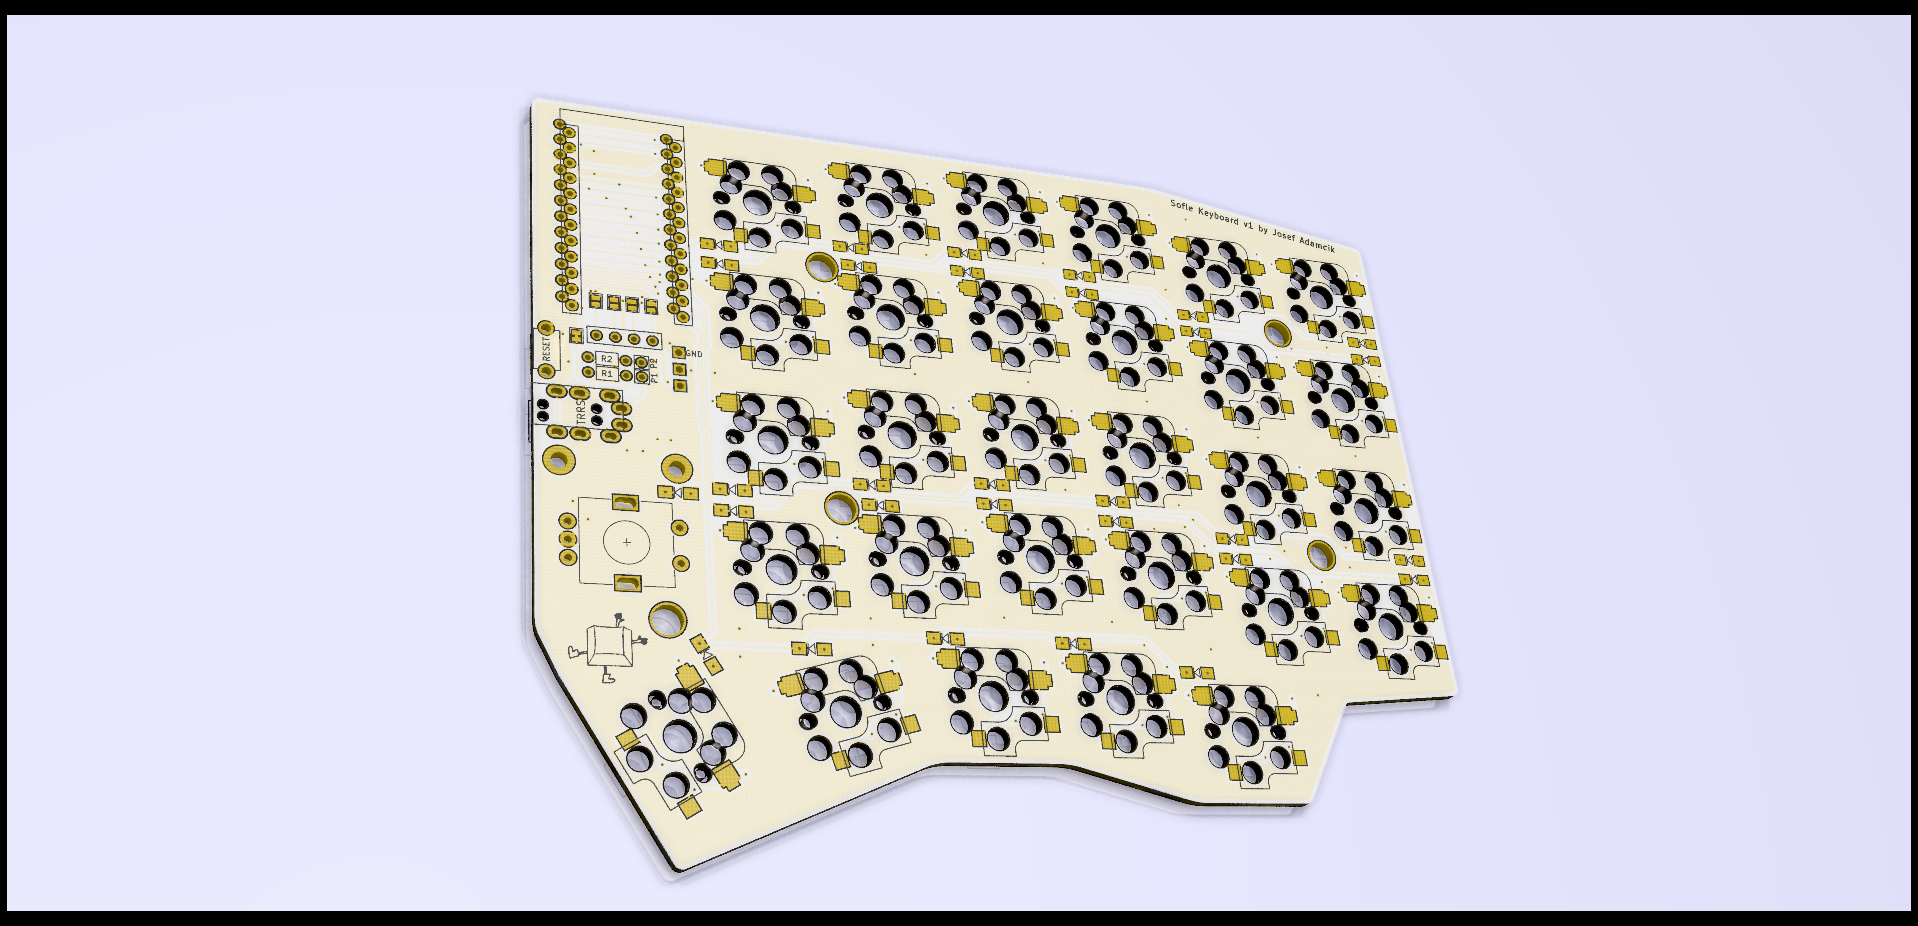
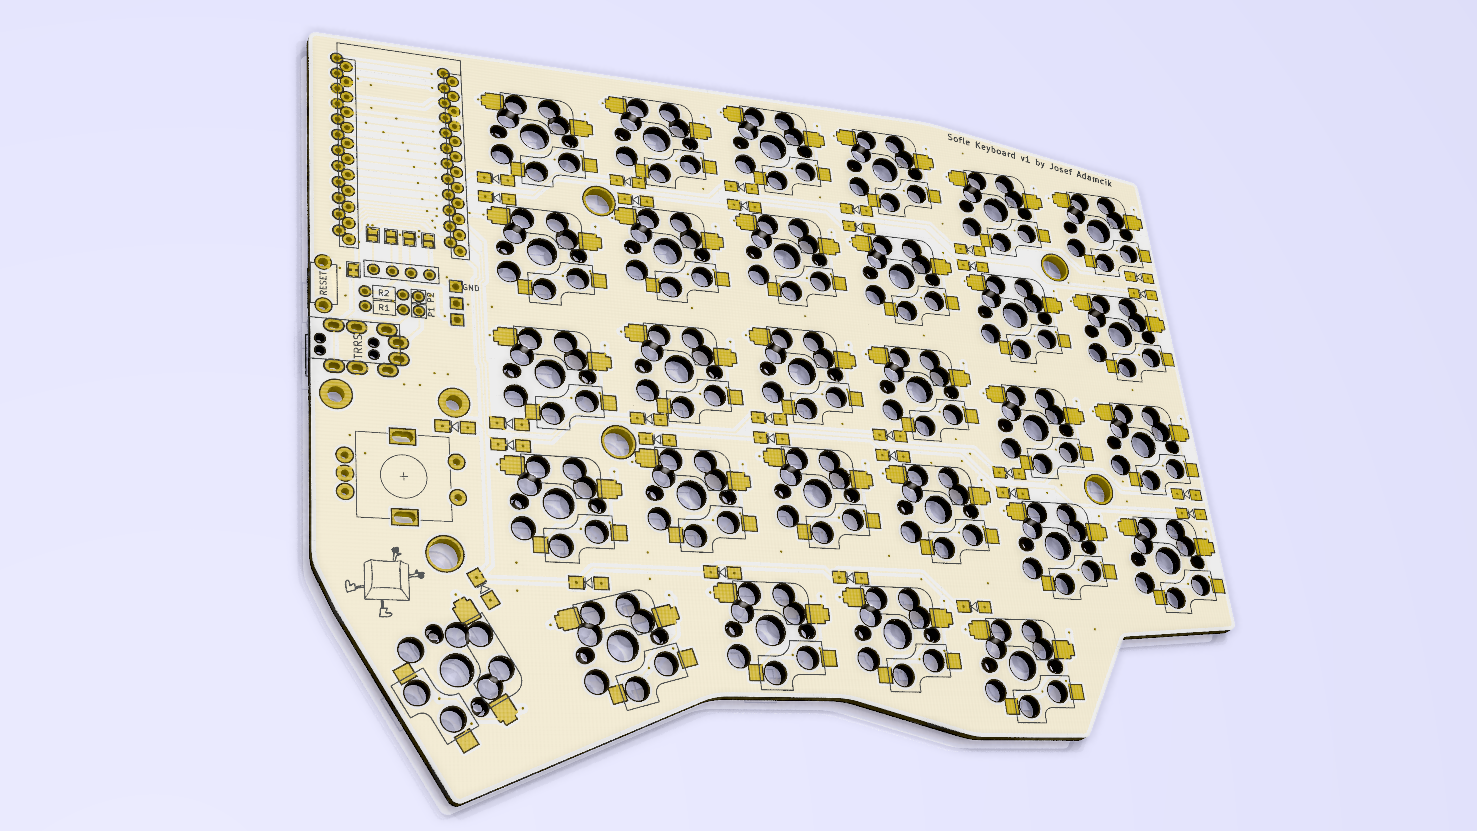
WIP sofle - more pictures, BOM

diff --git a/_drafts/sofle-keyboard.md b/_drafts/sofle-keyboard.md
@@ -8,7 +8,7 @@ series: "SofleKeyboard"
 image: /images/sofle/IMG_20200126_114622.jpg
 ---
 
-In [the first article][layoutarticle] I explained my experience with custom keyboards and my requirements regarding desired layout for a DIY keyboard. I have also promised there will be another article featuring a custom keyboard with such layout. 
+In [the first article][layoutarticle] I explained my experience with custom keyboards and my requirements regarding a layout for my next DIY keyboard. I have also promised there will be another article featuring a custom keyboard with such layout. 
 
 Behold, this is SofleKeyboard - a 6×4+5 keys column-staggered split keyboard with encoder support. Based on Lily58, Corne and Helix keyboards.
 
@@ -44,17 +44,17 @@ It was not difficult[^5] to get the files from Github and start playing with the
 
 Adding one more switch to the bottom row was pretty straightforward. I added it to the matrix in the schematic, updated the PCB and placed new footprint and traces. 
 
-There's was also one key, just below the microcontroller, next to index finger which I didn't want. I decided to replace it with rotary encoder. Why? Well I am still not sure. QEM firmware supports them and you can map anything you wish to them. Usually people use them for volume control. I just had nothing else to put there so I figured I might give it a try.
+There's was also one key, just below the microcontroller, next to index finger which I didn't need. I decided to replace it with a rotary encoder. Why? QEM firmware supports rotary encoders even for split keyboards and you can map anything you wish to rotation in both direction and to press. Usually people use them for volume control. I just had nothing else to put in the empty space so I figured I might give it a try.
 
-I also felt the inner side of the keyboard which contains the Pro Micro and TRRS jack could be smaller. So I moved things around and arranged them more in the way how Corne does it. TRRS jack and reset button below the microcontroller.
+I also felt the inner side of the keyboard which contains the Pro Micro and TRRS jack could be smaller. So I moved things around and arranged them more in the way how Corne does it: TRRS jack and reset button below the microcontroller.
 
 The last thing was to change the overall shape of the board. I used Inkscape and the tricks I learned when making PCB badges. 
 
-{% responsive_image path: images/sofle/both_pcb_top.png alt:"Lily58 and SofleKeyboard PCBs next to each other."  figcaption:"Lily58 PCB on the left and SofleKeyboard on the right"%}
+{% responsive_image path: images/sofle/both_pcb_top.png alt:"Lily58 and SofleKeyboard PCBs next to each other."  figcaption:"Lily58 PCB on the left and SofleKeyboard on the right. Some layers are hidden in the pictures."%}
 
 You can see how close are both to each other.
 
-Next step was to create top and the bottom plate. It took me some time to figure out how to do correctly the cut-outs for switches in the top plate and holes for screws. The critical part here is to have everything aligned on all three layers. To be honest I don't recall exact process. I believe I combined Inkscape and export from KiCad. The holes for switches are actually included in the `Eco2.User` layer. It's also possible to plot drill file to SVG which allowed me to align holes properly (I believe [svg2shenzen][svg2shenzen] Inkscape plugin helped me there since it allows to specify a drill hole by placing a circle of desired diameter on a particular SVG layer).
+Next step was to create the top and the bottom plate. It took me some time to figure out how to place properly the cut-outs for switches in the top plate and the holes for screws. The critical part here is to have everything aligned on all three layers. To be honest I don't recall the exact process. I believe I combined Inkscape and exports from KiCad. The holes for switches are included in the `Eco2.User` layer. It's also possible to plot a drill file to SVG which allowed me to align drill holes (I believe [svg2shenzen][svg2shenzen] Inkscape plugin helped me there since it allows to specify a drill hole by placing a circle of desired diameter on a particular SVG layer).
 
 I was worried I might have made some mistake so I did a cardboard prototype.
 
@@ -66,12 +66,88 @@ And everything looked good. My girlfriend was so kind and drew a logo for the ke
 {% responsive_image path: images/sofle/SofleKeyboardTopPlate.png alt:"3D render of the top plate"  figcaption:"3D render of the top plate" %}
 {% responsive_image path: images/sofle/SofleKeyboardBottomPlate.png alt:"3D render of the bottom plate"  figcaption:"3D render of the bottom" %}
 
+## Manufactured boards
+
+I had the boards manufactured at JLCPCB as I did for corne. 5 pieces of each (top, bottom, PCB) with white silkscreen, 1.6mm thickness and HASL finish. The price was 27$ for boards and 11$ for shipping (cheap and slow one as usual) which is 38$ for 2.5 keyboards. 
+
+I ordered them 15.10. they were shipped 21.20. and delivered 4.11.2019. This makes 3 weeks total. And here they are.
+
+{% responsive_image path: images/sofle/IMG_20191104_202743.jpg alt:"Final PCBs"  figcaption:"Final PCBs" %}
+
+The result was perfect. No manufacturing problems, no mistakes on my side, everything aligned properly. 
+
+## Building the first SofleKeyboard
+
+This section is partly a build log and partly a build guide since there's no build guide for the keyboard yet and there are already people who would like to build SofleKeyboard.
+
+### Bill of materials
+
+Apart from PCBs and plates the following is needed to build the keyboard:
+
+- **58 keyboard switch sockets by Kailh**. The PCB supports either sockets for traditional MX switches or sockets for Kailh Choc switches (low profile mechanical switches). They are available on Aliexpress, KBDFans and others.
+- **58 keyboard switches** of your preference, either MX or [Kailh Choc][choc]. Just make sure you have matching sockets for them
+- **58 keycaps**. You can use either all in `1u` size but it looks nicer with two `1.5u` for thumb keys.
+- **58 diodes  1N4148W**. They are surface mount diodes in SOD123 package
+- **2 TRRS connectors**. The same are used for Corne, Lily58 etc. Technically even TRS should work[^2] if you stick to (default) serial communication. I have [used those on AliExpress][trrs].
+- **1 TRRS cable**. TRS should work[^2] if you stick with Serial. 
+- **10 (+4) M2 spacers**. 10 are going to hold bottom and top together. Their height depends on which switches you use. A build guide Lily58 Pro suggests `4mm` for Choc and `7mm` for MX. I was not able to get `7mm`, but `6mm` worked well for me with MX switches. I used brass ones but you can also buy nicer from anodised aluminium. Another 4 would be needed to hold transparent OLED cover but even though there are mounting holes in the PCB there is no OLED cover designed yet. I used those [from AliExpress][spacers].
+- **20 (+8) M2 screws**. 20 are going to hold the boards together (via spacers). I used some I had in my stock so I am not going to tell you exact length. But they need to be long enough to fix a `1.6mm` thick PCB to the spacer and short enough so two of them are able to fit in one spacer (might be trickier with 4mm spacers for Choc switches)
+- **8 - 10 adhesive rubber feet** They are really important, trust me. I have [used those][rubberfeet].
+- **2 ssd1306 128x32 OLED display module** Very common everywhere, [for example here][oled].
+- **2 Rotary encoders EC11** optional. So far I have used only 1 but 2 are supported too.
+- **2 Pro Micro** or clone. The [original is from SparkFun][promicroorig] or [clones everywhere][promicro] with 2x12 pins and ATmega32U4 microcontroller. Just make sure you **don't** buy something like Arduino Micro (a different pinout) or Arduino Mini (different microcontroller). You could also use Elite-C which bascially Pro Micro with USB-C or QMK Proton C[^6](32-bit Cortex-M4 processor and USB-C)
+- **4x12 pin header (and optionally socket)** for Pro Micros. There are several ways how to mount Pro Micros to the board. Either the male PIN headers you most likely got with the board from supplier could be used to solder it directly to the board. Build guides for Helix, Corne and Lily58 suggest [those spring pin headers][springpinheader] which are very compact and give you non-permanent connection (you can remove or replace Pro Micros). But the link goes to a Japanese e-shop which is not shipping to Europe. I haven't found any other place where those are available. All I can find is Japanese datasheet and this e-shop. I ended up using low-profile round pin headers which take a bit more height but also allow me to remove Pro Micros and use them elsewhere. But for Corne I just soldered them permanently. But I would be interested in finding a better way.
+- **2x4 pin header (and optionally socket)** for OLEDs. I have used the most common 1x4 female pin sockets which are quite tall but they also fit the height of ProMicro with the sockets I have used. Unfortunately the pin headers on my OLED modules (again those very common square male headers you would get with the modules) are loose in the sockets. It works but it's fiddly. I'll have to find better solution.
+- **Micro USB Cable** to connect the keyboard to computer.
+
+That's it. There are no RGB LDS on the board. But if you really need underglow it should be possible to connect RGB LED strip since there are 3 pads (VCC, GND and one signal for driving) on the board. You would need to figure out the particular parts in firmware on your own.
+
+### Steps
+
+
+### Firmware and programming
+
+TODO:
+
+## Cleaning the firmware
+
+TODO:
+
+## Links
+
+TODO:
+
+- Github with KiCad projects
+- Github with a fork QMK firmware for SofleKeyboard (not yet in the upstream)
+
+## Future plans
+
+### Short term
+
+- A proper build guide in the repository.
+- Improve default layout to be more friendly - the default should be QWERTY and maybe a support for Dvorak could be added.
+- Maybe add support for QMK configurator
+- Push the firmware / layout to QMK upstream.
+- Design a laser-cut acrylic case and OLED covers. Build one version using those.
+- Build another version with Choc swiches.
+- There could be a version of the PCB which would allow switches to be soldered directly on the board.
+
+### Long term
+
+- Maybe another version with improved layout. So far I am not sure what I would like to change, so this is not going to happen soon. Maybe I could move the bottom row a tiny bit more into the center.
+- Some future version could have microcontroller directly on the PCB (I see Pro Micros as a temporary solution).
+- I might even use some other microcontroller. Maybe STM32F303xC which is used by [QMK Proton-C][qmkprotonc] and supported by QMK firmware.
+
+
+## Notes
+
 
 [^1]: I used [Zilents V2][zilentsv2], silent tactile switches by ZealPC (and made by Gateron) which are very expensive. 
 [^2]: Serial is the default behaviour. If serial is used, you don't need TRRS cable (4 contacts, used for headphones with microphone) but just TRS (stereo audio jack). 
 [^3]: I2C requires additional pull up resistor at least on one half. You also need to cut a trace and change configuration of the firmware. At least that's how I understand it, I haven't tried it yet.
 [^4]: That also means that sometimes you don't have to update firmware in both Pro Micros. If you, for example, do just changes to the mapping you can update just master half since the slave only scans the matrix and doesn't care what is going to be mapped where.
 [^5]: I had to do some troubleshooting regarding footprints. There are some custom footprints included in the project on Github but they seemed to be incomplete or maybe outdated. 
+[^6]: Well, you could. But I haven't tested it and have no idea if the firmware is going to work out of box or not. QMK does support the board but I don't have one and don't know what is needed to support it.
 
 
 [layoutarticle]: {{ site.baseurl }}{% post_url 2019-10-13-in-search-of-the-best-custom-keyboard-layout %} "In search of the best custom keyboard layout"
@@ -103,3 +179,19 @@ And everything looked good. My girlfriend was so kind and drew a logo for the ke
 {:target="_blank"}
 [svg2shenzen]: https://github.com/badgeek/svg2shenzhen "SVG2Shenzen inkscape plugin"
 {:target="_blank"}
+[choc]: http://www.kailh.com/en/Products/Ks/CS/ "low profile switches from Kailh"
+{:target="_blank"}
+[trrs]: <https://www.aliexpress.com/item/32869968774.html> "TRRS conectors on Aliexpress"
+{:target="_blank"}
+[buttons]: <https://www.aliexpress.com/item/32981768203.html> "Buttons on Aliexpress"
+{:target="_blank"}
+[spacers]: <https://www.aliexpress.com/item/32974970926.html> "Brass spacers on AliExpress"
+{:target="_blank"}
+[rubberfeet]: <https://www.aliexpress.com/item/32839661456.html> "Rubber feet on Aliexpress"
+{:target="_blank"}
+[oled]: <https://www.aliexpress.com/item/32712441521.html> "OLED on AliExpress"
+{:target="_blank"}
+[promicro]: <https://www.aliexpress.com/item/32849563958.html> "ProMicro clone on AliExpress"
+{:target="_blank"}
+[springpinheader]: <https://yushakobo.jp/shop/a01mc-00/> "Spring pin headers - Japaneese"
+[qmkprotonc]: https://qmk.fm/proton-c/ "QMK Proton-C"
